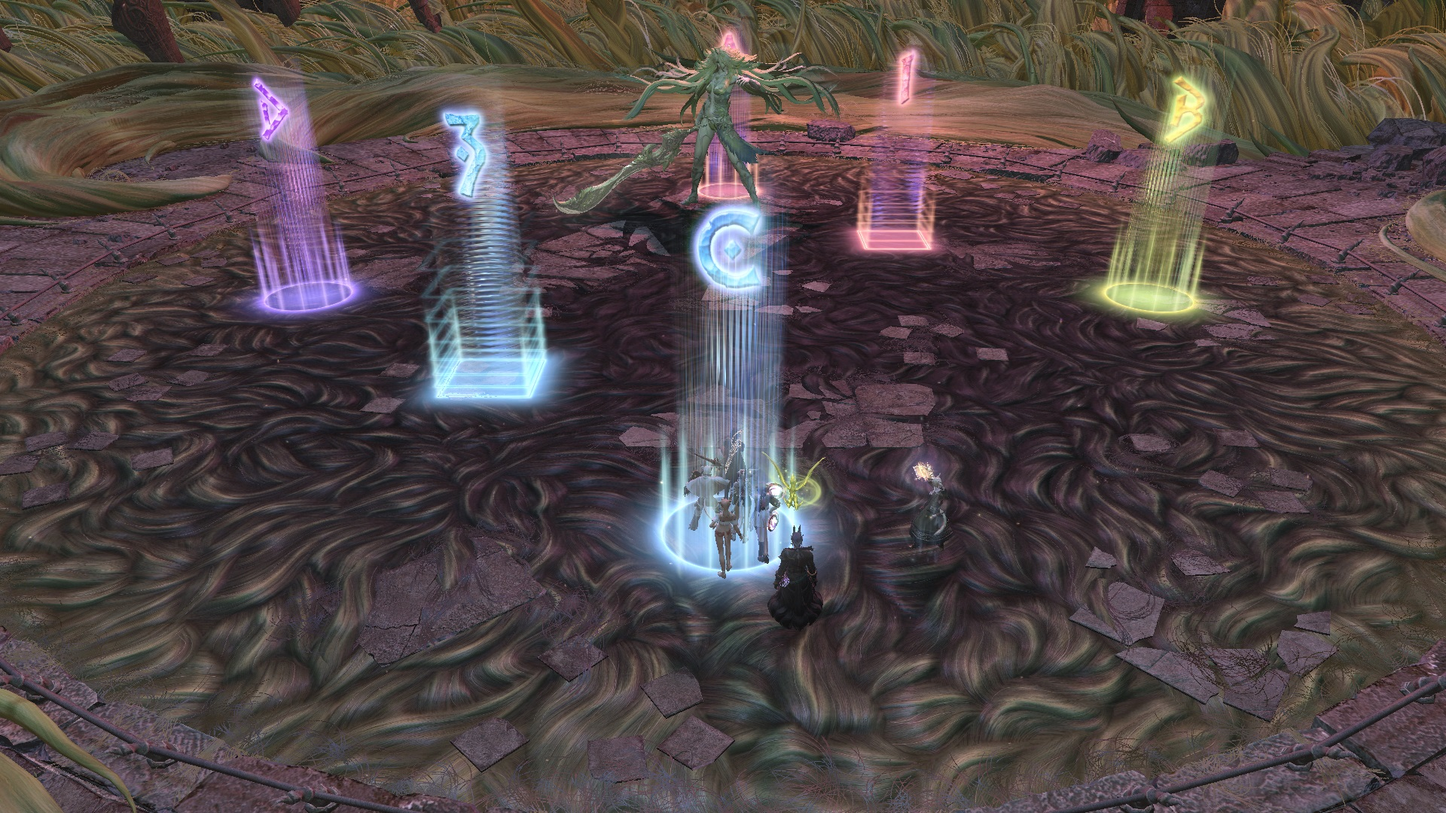
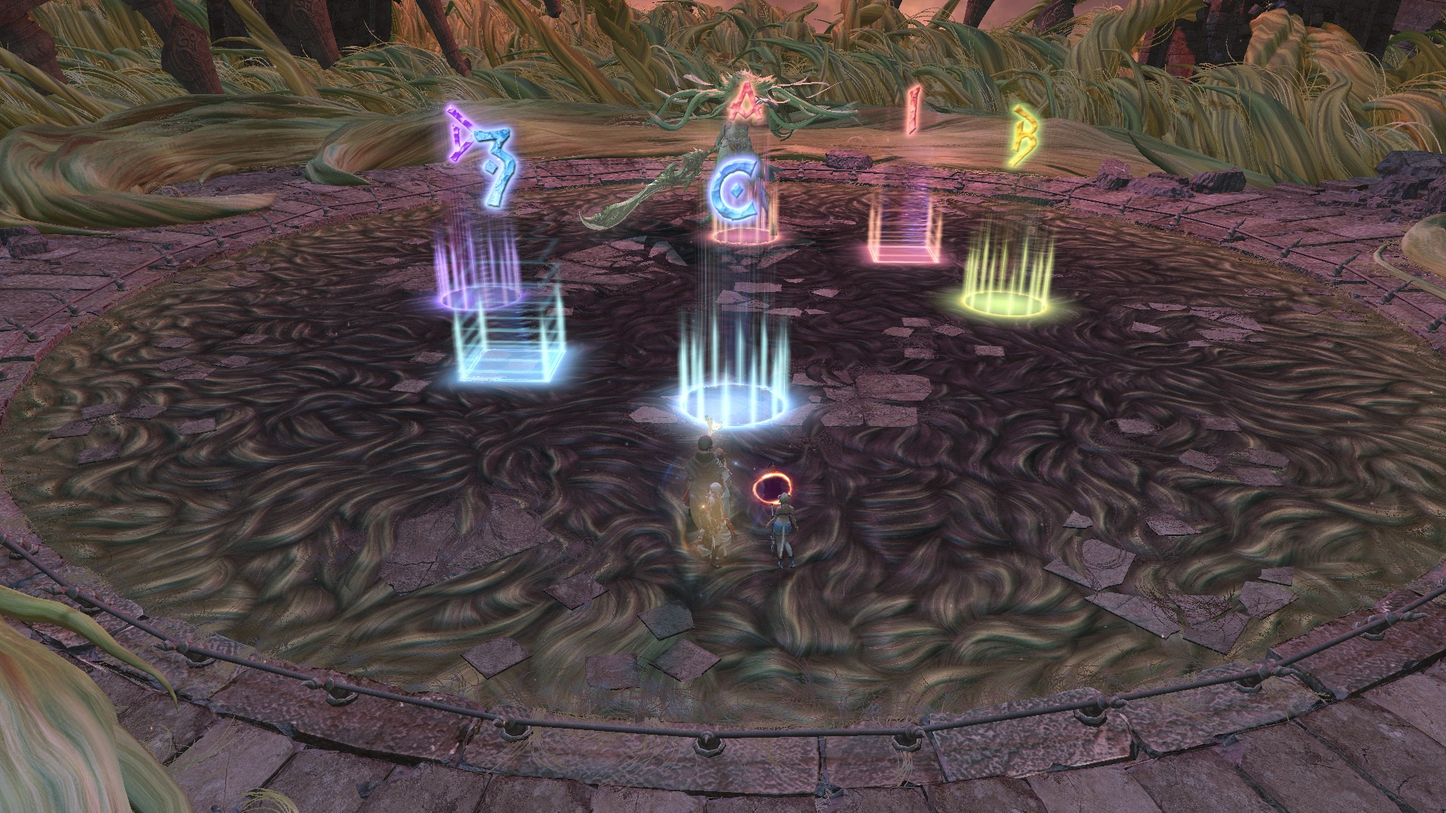
Add Game8's updated macro

diff --git a/6.0_endwalker/extreme_trials/barbariccia/README.md b/6.0_endwalker/extreme_trials/barbariccia/README.md
@@ -9,51 +9,51 @@ permalink: /6.0_endwalker/extreme_trials/barbariccia/
 
 # Storm's Crown (Extreme)
 
-PF largely follows [Hamkatsu's strat](https://youtu.be/e-w4nFwWw-8).
+This is [game8's macro](https://game8.jp/ff14/477950).
 
-### Things to check on Party Finder
-
-Check the Enumeration pairs- some macros pair MTD4, H2D2, ... instead of MTD3, H2D4, ...
-
-## English
-```
-■ Spread　　■ Playstation
-　D3 MT D4　　　　△
-　H1　　H2　　□　　　○
-　D1 ST  D2　　　　×
-【4:4 stacks】D3 H1 D1 MT←→ST D2 H2 D4
-【Hair+AoE+Enumeration】NE + SW
-【Enumeration Pairs】MTD3　H2D4　STD2　H1D1
-【Mario Kart】Start South, run cw
-【2x Flares + stack】MT→NW　ST→NE　stack→S
-【PS1 spread】DPS→cw　T/H→ccw
-【PS2 pairs】Pairs without Enums rotate cw
-　unless both Enum pairs are next to each other
-```
+It's basically [Hamkatsu's strat](https://youtu.be/e-w4nFwWw-8), but resolves Playstation symbols in a "braindead" manner (T/H go to assigned cardinals, DPS all stack in the center and get pulled to their assigned partner). 
 
 ## Japanese
 ```
-■基本散開　　■プレステ散開
-　D3 MT D4　　　　△
-　H1　　H2　　□　　　○
-　D1 ST  D2　　　　×
-【4:4頭割り】D3 H1 D1 MT←→ST D2 H2 D4
-【ヘアレイド足元】ボス向き基準で散開or頭割り
-【髪+AoE+頭割り】北東(1マーカー)と南西（3マーカー）で頭割り
-【タコマーカー】中央に捨て方角基準で基本散開
-【ペア頭割り】MTD3　H2D4　STD2　H1D1
-【線+エラプ】南スタート　時計回り
-【フレア+頭割り】MT北西　ST北東　頭割り南
-【プレステ後散開】AoE跨ぎDPS時計側、TH反時計側
-【ペア頭割り】無職組が時計移動
-　　　　　　　無職が被る場合のみ片方が反時計移動
+【散開基準】ヘアレイド：ボス基準　それ以外：北基準
+【基本散開】　 【ペア塔】
+D3 MT D4　　　MTD3
+H1　　H2　 H1D1　 H2D4
+D1 ST D2　 　　 STD2
+【ヘアレイド】H1 MT ◎ ST H2
+　　　　　　　D3 D1　D2 D4
+【距離減衰+頭割り】【プレステ脳死】
+　　MT　　ST　　　　　　MT
+　　　　◎ 　 　 　　　H1 DPS H2
+　　　頭割り 　 　 　　　　ST　※マーカー問わずDPS中央
+【呪髪拘束1回目】ペア塔：① ③マーカー付近 AOE：ペア塔と逆
+【4連円範囲捨て】Cマーカー付近スタートで時計回り
+【呪髪拘束2回目】DPS：時計回り側　TH：反時計回り側
+```
+
+## English
+```
+Hair Raid：Boss-relative　Others：Map-relative
+【Spread】　　 【Pairs】
+　D3 MT D4　　　MTD3
+　H1　　H2　 H1D1　 H2D4
+　D1 ST D2　 　　 STD2
+【Hair Raid】H1 MT ◎ ST H2
+　　　　　　　D3 D1　D2 D4
+【2x Flares + stack】【Playstation (braindead)】
+　　MT　　ST　　　　　　　　MT
+　　　　◎ 　 　 　　　　　H1 DPS H2
+　　　stack 　 　　　 　　　　  ST
+【Teasing Tangles #1】Pairs at ①+③
+【Mario Kart】Start at C, run clockwise
+【Teasing Tangles #2】DPS：cw　TH：ccw
 ```
 
 ## Markers
 
-Note that the `ABCD` markers aren't all the way at the edge- this is to make them easier to spot when the boss transforms and the arena shrinks.
+You might see the `ABCD` markers placed further out towards the edge of the arena.
 
-- `ABCD`: Orientation
+- `ABCD`: Orientation, T/H Playstation positions
 - `C`: Party stack during 2x Flares + stack
 - `1` and `3`: Enumeration pairs during Teasing Tangles
 
@@ -62,6 +62,6 @@ Note that the `ABCD` markers aren't all the way at the edge- this is to make the
 <summary>XIVLauncher WaymarkPresetPlugin positions</summary>
 
 ```json
-{"Name":"Barbariccia EX","MapID":871,"A":{"X":100.0,"Y":0.0,"Z":87.0,"ID":0,"Active":true},"B":{"X":113.0,"Y":0.0,"Z":100.0,"ID":1,"Active":true},"C":{"X":100.0,"Y":0.0,"Z":113.0,"ID":2,"Active":true},"D":{"X":87.0,"Y":0.0,"Z":100.0,"ID":3,"Active":true},"One":{"X":106.0,"Y":0.0,"Z":94.0,"ID":4,"Active":true},"Two":{"X":0.0,"Y":0.0,"Z":0.0,"ID":5,"Active":false},"Three":{"X":94.0,"Y":0.0,"Z":106.0,"ID":6,"Active":true},"Four":{"X":0.0,"Y":0.0,"Z":0.0,"ID":7,"Active":false}}
+{"Name":"Barbariccia EX","MapID":871,"A":{"X":100.0,"Y":0.0,"Z":91.5,"ID":0,"Active":true},"B":{"X":108.5,"Y":0.0,"Z":100.0,"ID":1,"Active":true},"C":{"X":100.0,"Y":0.0,"Z":108.5,"ID":2,"Active":true},"D":{"X":91.5,"Y":0.0,"Z":100.0,"ID":3,"Active":true},"One":{"X":106.0,"Y":0.0,"Z":94.0,"ID":4,"Active":true},"Two":{"X":106.0,"Y":0.0,"Z":94.0,"ID":5,"Active":false},"Three":{"X":94.0,"Y":0.0,"Z":106.0,"ID":6,"Active":true},"Four":{"X":94.0,"Y":0.0,"Z":106.0,"ID":7,"Active":false}}
 ```
 </details>
